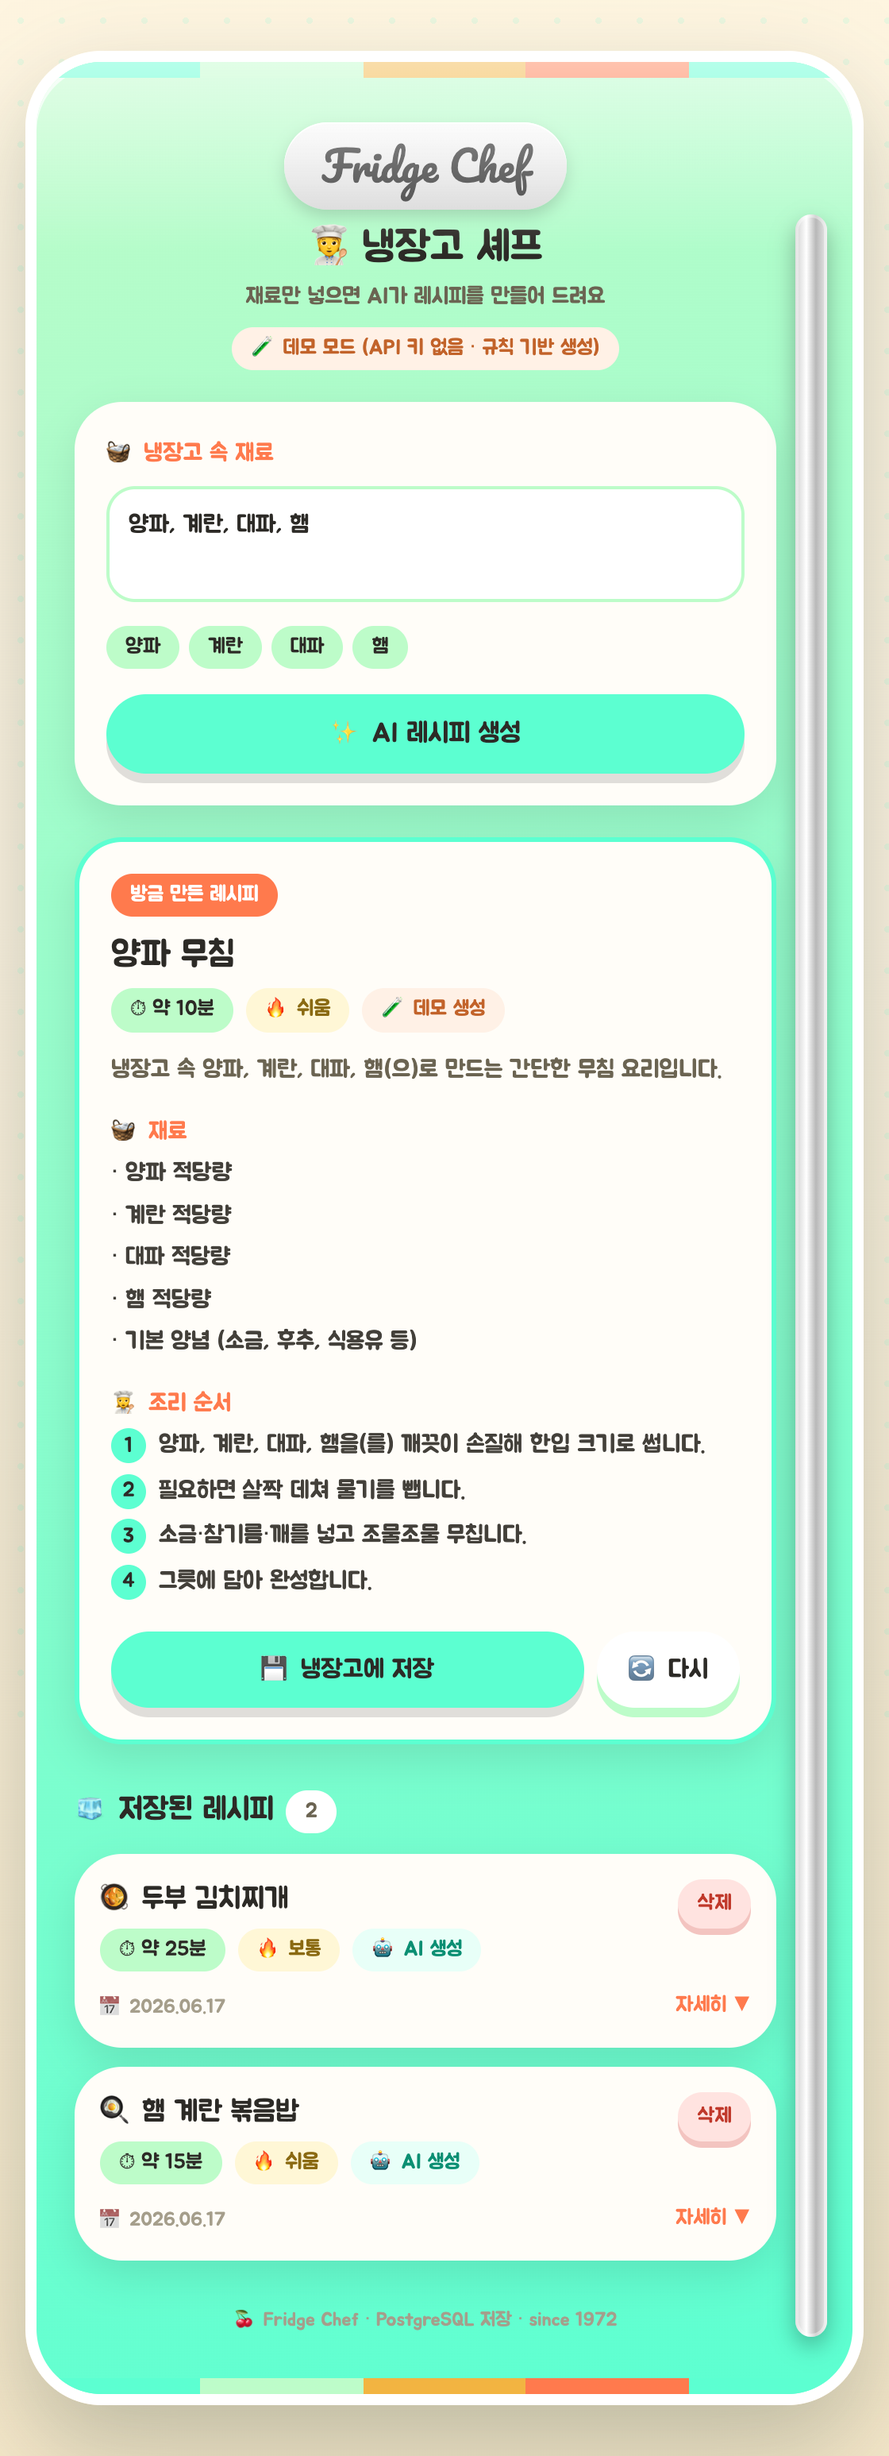
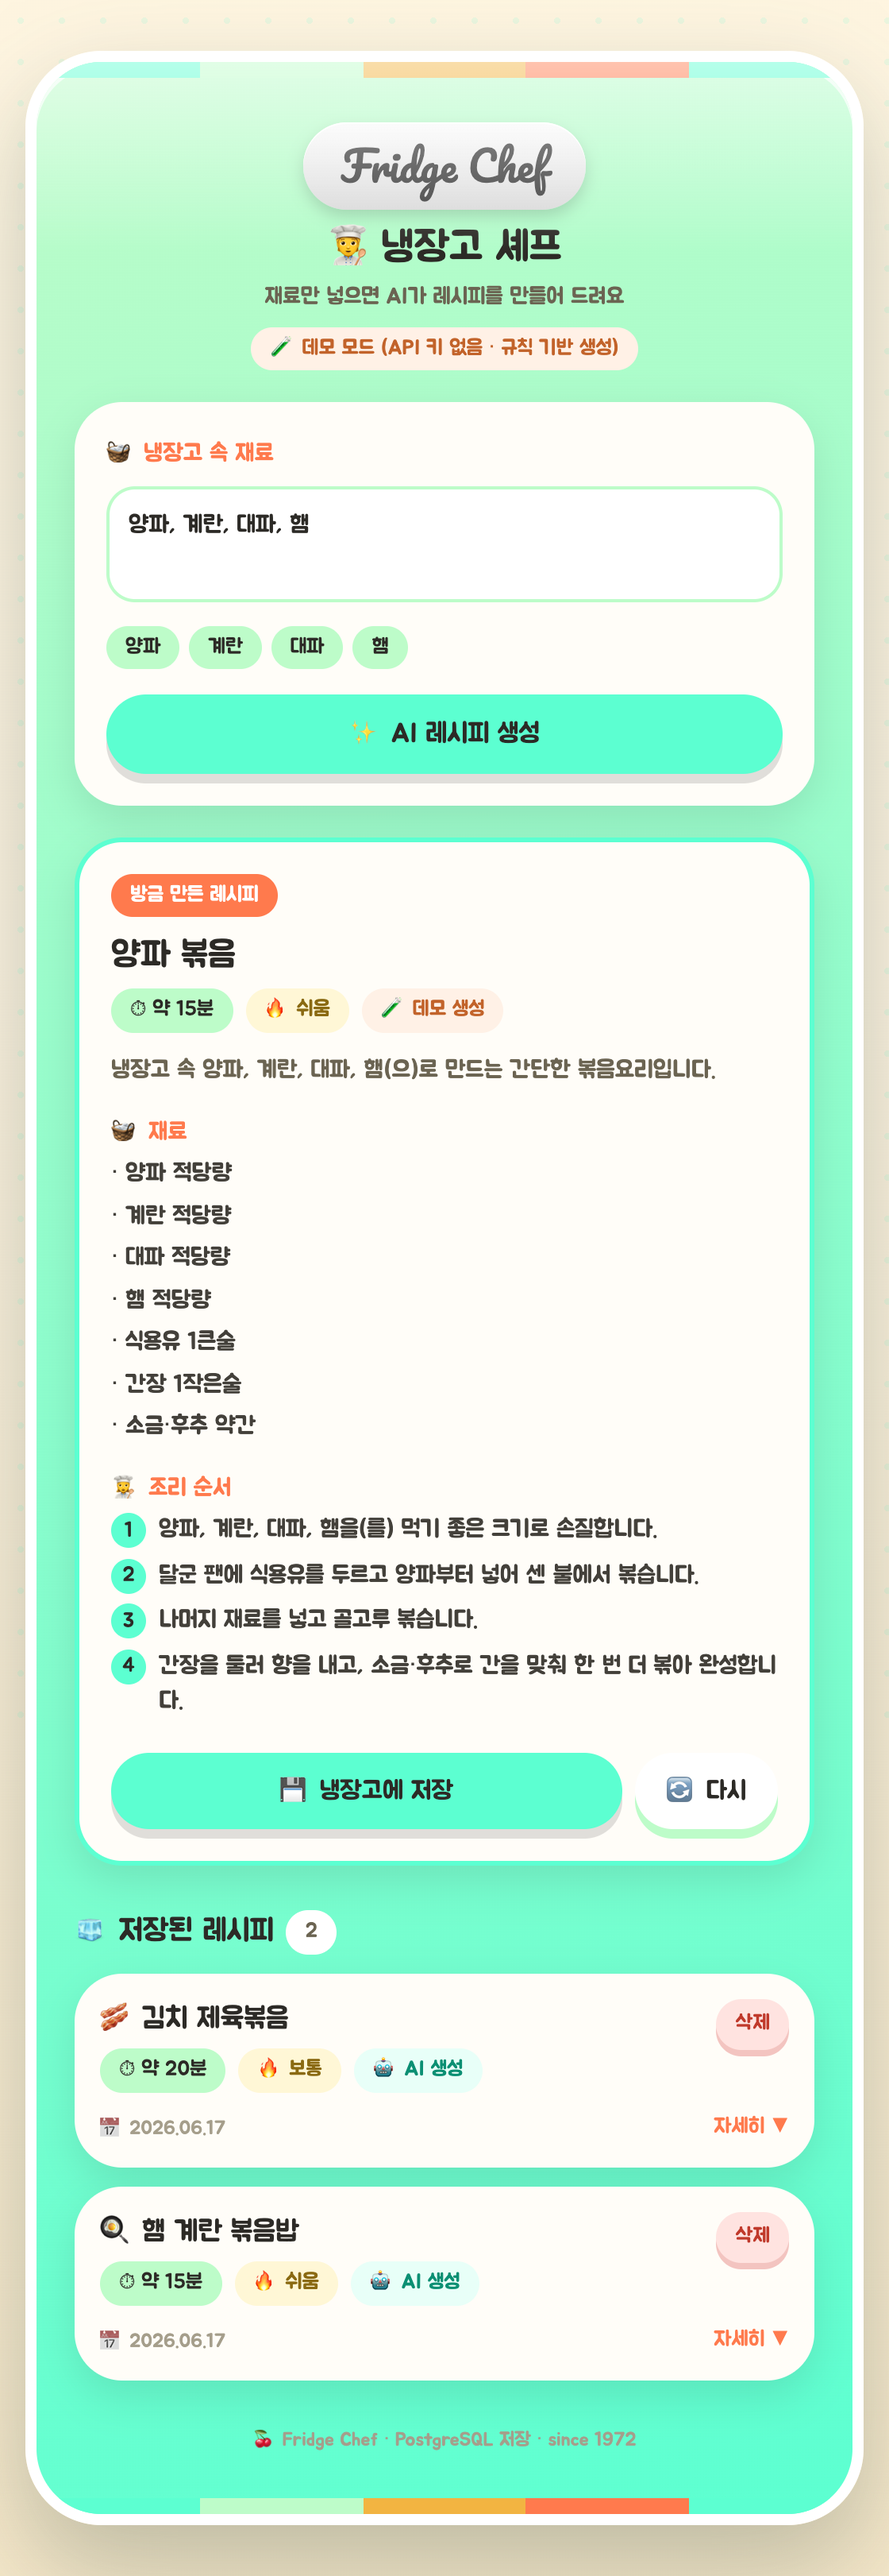
Remove fridge handle and make recipes stir-fry (볶음) only
- index.html: 오른쪽 크롬 손잡이 제거, 패딩 정리
- server.js: AI 프롬프트를 볶음요리 전용으로, 폴백도 항상 볶음 생성
- 스크린샷 갱신(볶음 레시피로 재시드)

Changed region(s): [[0.0625, 0.0, 0.9375, 0.9935]]

diff --git a/0609NewTesttt/Week4/Homework4/03_recipemake_Server_DB/server.js b/0609NewTesttt/Week4/Homework4/03_recipemake_Server_DB/server.js
@@ -89,13 +89,14 @@ async function generateWithClaude(ingredients, apiKey) {
     max_tokens: 2000,
     system:
       '당신은 한국 가정식에 능숙한 요리사입니다. 주어진 재료로 실제로 만들 수 있는 ' +
-      '간단하고 맛있는 요리 레시피 1개를 한국어로 제안합니다. 입력된 재료를 최대한 활용하고, ' +
-      '소금·후추·식용유 같은 기본 양념은 자유롭게 더해도 됩니다. 분량과 조리 순서는 초보자도 ' +
-      '따라 할 수 있도록 구체적으로 작성하세요.',
+      '간단하고 맛있는 **볶음요리** 레시피 1개를 한국어로 제안합니다. 반드시 팬이나 웍에 ' +
+      '기름을 두르고 볶는 조리법이어야 하며, 요리 이름에도 "볶음"이 들어가야 합니다. ' +
+      '입력된 재료를 최대한 활용하고, 소금·후추·식용유·간장 같은 기본 양념은 자유롭게 더해도 됩니다. ' +
+      '분량과 조리 순서는 초보자도 따라 할 수 있도록 구체적으로 작성하세요.',
     messages: [
       {
         role: 'user',
-        content: `다음 재료로 만들 수 있는 요리 레시피를 하나 만들어 주세요: ${ingredients.join(', ')}`,
+        content: `다음 재료로 만들 수 있는 볶음요리 레시피를 하나 만들어 주세요: ${ingredients.join(', ')}`,
       },
     ],
     output_config: { format: { type: 'json_schema', schema: RECIPE_SCHEMA } },
@@ -116,37 +117,21 @@ async function generateWithClaude(ingredients, apiKey) {
   return { ...data, source: 'ai' };
 }
 
-// 규칙 기반 폴백 레시피 생성 (API 키 없이도 동작)
+// 규칙 기반 폴백 레시피 생성 (API 키 없이도 동작) — 항상 볶음요리
 function fallbackRecipe(ingredients) {
   const main = ingredients[0] || '재료';
-  const methods = [
-    { name: '볶음', time: '약 15분', diff: '쉬움', steps: (xs) => [
-      `${xs.join(', ')}을(를) 먹기 좋은 크기로 손질합니다.`,
-      `달군 팬에 식용유를 두르고 ${xs[0]}부터 넣어 중불에서 볶습니다.`,
-      `나머지 재료를 넣고 함께 볶습니다.`,
-      `소금·후추로 간을 맞추고 한 번 더 볶아 완성합니다.`,
-    ] },
-    { name: '국', time: '약 20분', diff: '쉬움', steps: (xs) => [
-      `냄비에 물 3컵을 붓고 ${xs[0]}을(를) 넣어 끓입니다.`,
-      `끓어오르면 ${xs.slice(1).join(', ') || '준비한 재료'}를 넣습니다.`,
-      `중불에서 5~10분간 더 끓여 재료를 익힙니다.`,
-      `소금으로 간을 맞추고 불을 끕니다.`,
-    ] },
-    { name: '무침', time: '약 10분', diff: '쉬움', steps: (xs) => [
-      `${xs.join(', ')}을(를) 깨끗이 손질해 한입 크기로 썹니다.`,
-      `필요하면 살짝 데쳐 물기를 뺍니다.`,
-      `소금·참기름·깨를 넣고 조물조물 무칩니다.`,
-      `그릇에 담아 완성합니다.`,
-    ] },
-  ];
-  const m = methods[main.length % methods.length];
   return {
-    title: `${main} ${m.name}`,
-    description: `냉장고 속 ${ingredients.join(', ')}(으)로 만드는 간단한 ${m.name} 요리입니다.`,
-    ingredients: [...ingredients.map((n) => `${n} 적당량`), '기본 양념 (소금, 후추, 식용유 등)'],
-    steps: m.steps(ingredients),
-    cook_time: m.time,
-    difficulty: m.diff,
+    title: `${main} 볶음`,
+    description: `냉장고 속 ${ingredients.join(', ')}(으)로 만드는 간단한 볶음요리입니다.`,
+    ingredients: [...ingredients.map((n) => `${n} 적당량`), '식용유 1큰술', '간장 1작은술', '소금·후추 약간'],
+    steps: [
+      `${ingredients.join(', ')}을(를) 먹기 좋은 크기로 손질합니다.`,
+      `달군 팬에 식용유를 두르고 ${main}부터 넣어 센 불에서 볶습니다.`,
+      `나머지 재료를 넣고 골고루 볶습니다.`,
+      `간장을 둘러 향을 내고, 소금·후추로 간을 맞춰 한 번 더 볶아 완성합니다.`,
+    ],
+    cook_time: '약 15분',
+    difficulty: '쉬움',
     source: 'fallback',
   };
 }

diff --git a/0609NewTesttt/Week4/Homework4/03_recipemake_Server_DB/index.html b/0609NewTesttt/Week4/Homework4/03_recipemake_Server_DB/index.html
@@ -49,13 +49,6 @@
       content:""; position:absolute; top:0; left:0; right:0; height:120px; pointer-events:none;
       background:linear-gradient(180deg, rgba(255,255,255,.55), rgba(255,255,255,0));
     }
-    /* 크롬 손잡이 */
-    .handle{
-      position:absolute; right:16px; top:96px; bottom:36px; width:20px; z-index:3;
-      border-radius:14px;
-      background:linear-gradient(90deg,#cfcfcf 0%,#ffffff 35%,#b8b8b8 65%,#eaeaea 100%);
-      box-shadow:0 6px 14px rgba(0,0,0,.28), inset 0 0 0 2px rgba(255,255,255,.4);
-    }
     /* 70s 스트라이프 액센트 바 */
     .stripes{ height:10px; display:flex; }
     .stripes i{ flex:1; }
@@ -218,10 +211,9 @@
       return (
         <div className="max-w-xl mx-auto px-4 py-8">
           <div className="fridge">
-            <div className="handle" />
             <Stripes />
 
-            <div className="px-6 pr-12 py-7 sm:px-8 sm:pr-14">
+            <div className="px-6 py-7 sm:px-8">
               {/* 브랜드 헤더 (SMEG 스타일 크롬 배지) */}
               <header className="text-center mb-5">
                 <div className="inline-block px-6 py-2 rounded-full mb-2"
